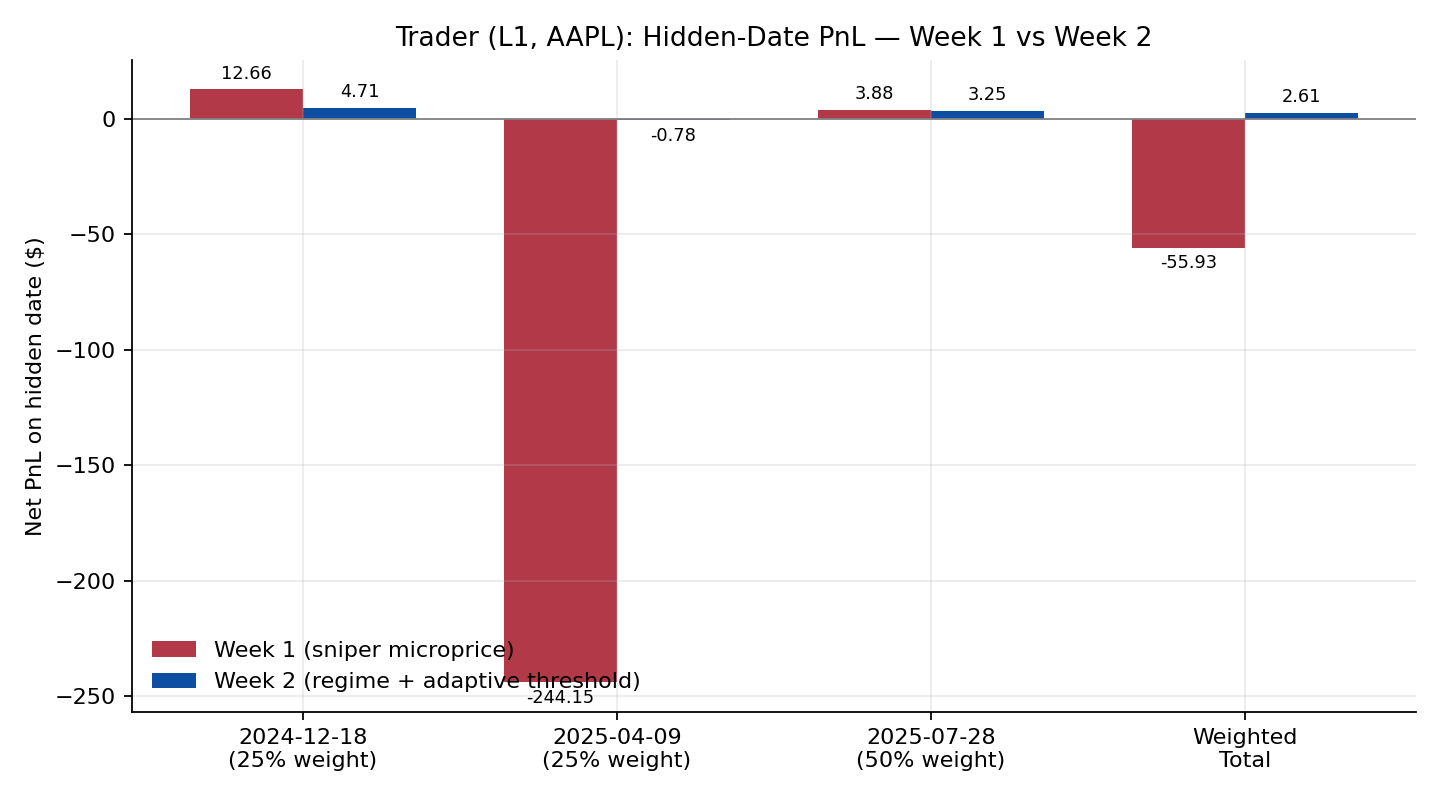
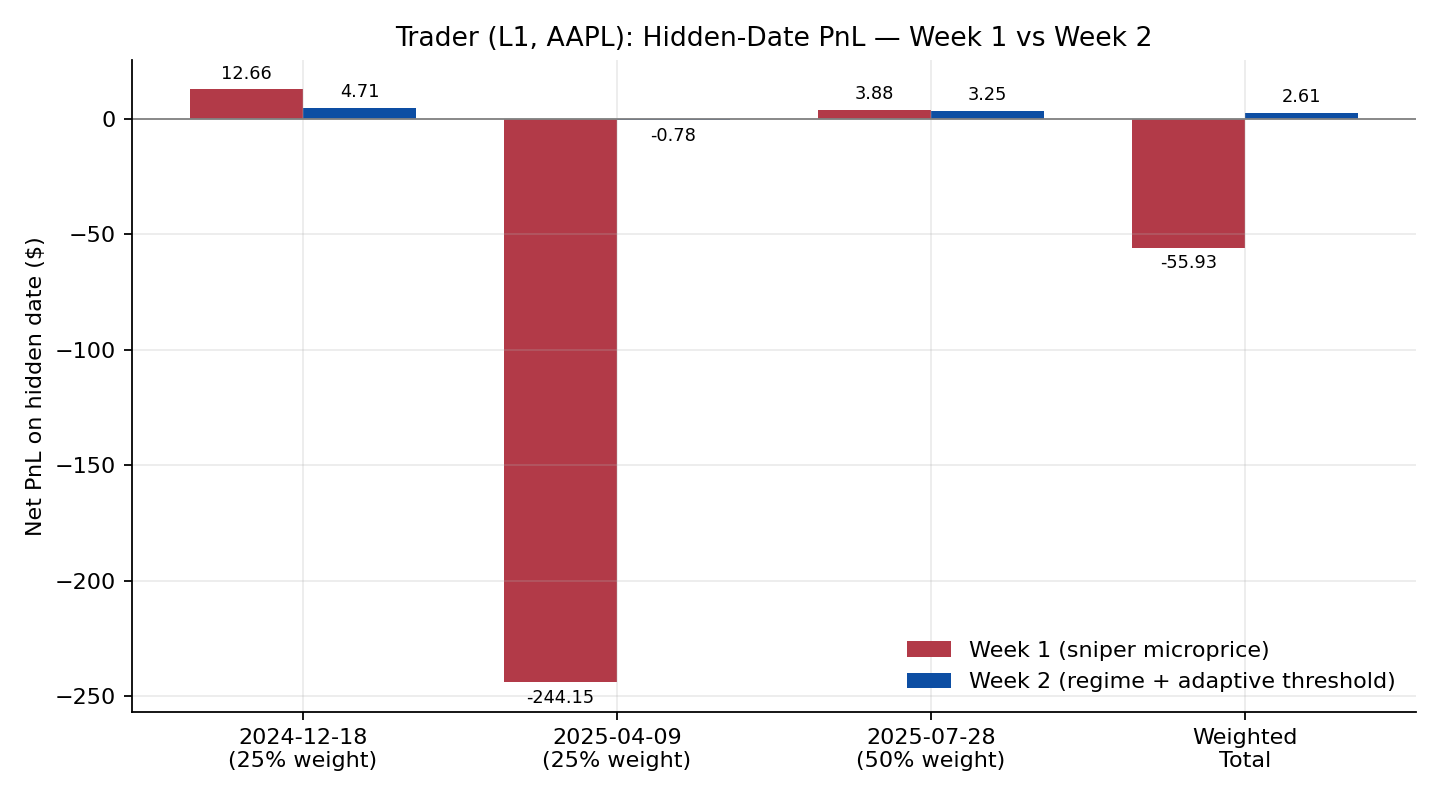
Mise à jour du site

Changed region(s): [[0.625, 0.7812, 0.9688, 0.875], [0.0938, 0.7812, 0.4375, 0.875]]

diff --git a/docs/quant_research/market_maker_ai/index.html b/docs/quant_research/market_maker_ai/index.html
@@ -153,7 +153,7 @@ window.Quarto = {
     <h2 id="toc-title">On this page</h2>
    
   <ul>
-  <li><a href="#week-7-baseline-a-textbook-avellaneda-stoikov-quoter-and-where-it-breaks" id="toc-week-7-baseline-a-textbook-avellaneda-stoikov-quoter-and-where-it-breaks" class="nav-link active" data-scroll-target="#week-7-baseline-a-textbook-avellaneda-stoikov-quoter-and-where-it-breaks">Week 7 baseline: a textbook Avellaneda-Stoikov quoter, and where it breaks</a></li>
+  <li><a href="#week-7-baseline-a-avellaneda-stoikov-quoter-and-where-it-breaks" id="toc-week-7-baseline-a-avellaneda-stoikov-quoter-and-where-it-breaks" class="nav-link active" data-scroll-target="#week-7-baseline-a-avellaneda-stoikov-quoter-and-where-it-breaks">Week 7 baseline: a Avellaneda-Stoikov quoter, and where it breaks</a></li>
   <li><a href="#week-8-six-targeted-fixes" id="toc-week-8-six-targeted-fixes" class="nav-link" data-scroll-target="#week-8-six-targeted-fixes">Week 8: six targeted fixes</a></li>
   <li><a href="#local-self-evaluation-development-day-2024-08-01" id="toc-local-self-evaluation-development-day-2024-08-01" class="nav-link" data-scroll-target="#local-self-evaluation-development-day-2024-08-01">Local self-evaluation (development day, 2024-08-01)</a></li>
   <li><a href="#hidden-date-results-week-7-vs-week-8" id="toc-hidden-date-results-week-7-vs-week-8" class="nav-link" data-scroll-target="#hidden-date-results-week-7-vs-week-8">Hidden-date results: Week 7 vs Week 8</a></li>
@@ -197,11 +197,16 @@ window.Quarto = {
 
 <p>This page documents the market-making assignment from <strong>MGMTMFE 412: Trading, Market Frictions, and FinTech</strong> at UCLA Anderson: maintain a two-sided quote on <code>SOFI</code> using a callback API (<code>build_strategy</code> → <code>on_market_event</code> / <code>on_fill</code>) against full L3 order-book data, graded on three hidden out-of-sample dates by</p>
 <p><span class="math display">\[
-\text{Score} = \text{NetPnL} - 0.50\,|q_{\text{end}}| - 0.20\,\overline{|q|} - 50\max(0,\, 0.30 - \text{two-sided ratio}) - 10 \times \text{market orders} - 25 \times \text{violations}.
+\text{Score}
+= \text{NetPnL}
+- 0.20\,\overline{\lvert q \rvert}
+- 50\,(0.30 - \text{two-sided ratio})^{+}
+- 10\,\text{market orders}
+- 25\,\text{violations}.
 \]</span></p>
-<p>As with the other strategies on this site, the code was developed iteratively with <strong>Claude (Anthropic)</strong>: I supplied the assignment brief, the previous week’s code, and the instructor’s feedback, and Claude proposed and implemented the quoting logic, which I then tested locally before submission. All figures below come from the autograder’s <code>summary.json</code> outputs and the instructor’s feedback reports.</p>
-<section id="week-7-baseline-a-textbook-avellaneda-stoikov-quoter-and-where-it-breaks" class="level3">
-<h3 class="anchored" data-anchor-id="week-7-baseline-a-textbook-avellaneda-stoikov-quoter-and-where-it-breaks">Week 7 baseline: a textbook Avellaneda-Stoikov quoter, and where it breaks</h3>
+<p>As with the other strategies, the code was developed iteratively with <strong>Claude (Anthropic)</strong>: I supplied the assignment brief, the previous week’s code, and the instructor’s feedback, and Claude proposed and implemented the quoting logic, which I then tested locally before submission. All figures below come from the autograder’s <code>summary.json</code> outputs and the instructor’s feedback reports.</p>
+<section id="week-7-baseline-a-avellaneda-stoikov-quoter-and-where-it-breaks" class="level3">
+<h3 class="anchored" data-anchor-id="week-7-baseline-a-avellaneda-stoikov-quoter-and-where-it-breaks">Week 7 baseline: a Avellaneda-Stoikov quoter, and where it breaks</h3>
 <p>The week-7 submission implements a linear inventory-skewed reservation price, <span class="math inline">\(r = \text{mid} - 0.10 \cdot q \cdot \text{tick}\)</span>, quoting 10 shares on each side with a 1-tick half-spread. Its main engineering contribution is a <em>safe-cancel</em> guard — only cancel an order that is provably behind the NBBO (a resting sell above the current ask, or a resting buy below the current bid) — combined with a two-level throttle: Level 1 immediately resubmits only the side that just got filled, while Level 2 refreshes both sides every 150 events. An inventory taper linearly reduces the accumulating side’s size as <span class="math inline">\(|q|\)</span> grows from 150 to 300 shares.</p>
 <p>On the hidden dates this scored an aggregate <strong>-301.9</strong>, with net PnL of <strong>-$180.02</strong>, a two-sided quote coverage of only 0.45 (below the 0.30 penalty threshold is fine, but barely), and <strong>1 violation</strong>:</p>
 <table class="caption-top table">
@@ -264,7 +269,7 @@ window.Quarto = {
 <h3 class="anchored" data-anchor-id="week-8-six-targeted-fixes">Week 8: six targeted fixes</h3>
 <p>Rather than a rewrite, week 8 kept the AS skeleton and layered on six changes aimed squarely at the three diagnosed weaknesses:</p>
 <ol type="1">
-<li><strong>Move-gate throttle</strong> — the Level-2 refresh now fires only when both 150 events have passed <em>and</em> the NBBO has moved by at least one tick, eliminating churn on flat markets while staying responsive to real price moves.</li>
+<li><strong>Move-gate throttle</strong> — the Level-2 refresh now fires only when both 150 events have passed <em>and</em> the NBBO has moved by at least one tick, eliminating churn on flat markets while staying responsive to price moves.</li>
 <li><strong>Stronger, non-cosmetic skew</strong> — a regime-dependent <code>extra_skew</code> adds up to 2 ticks (Warning regime: a fraction of 2 ticks; Critical regime: a flat 2 ticks) on top of the linear <code>SKEW_K</code> term, and the inventory clamp that previously bound at <span class="math inline">\(|q|=20\)</span> was raised from 2 to 4 ticks.</li>
 <li><strong>Multi-regime inventory guard</strong> — Normal (<span class="math inline">\(|q|\le180\)</span>), Warning (<span class="math inline">\(180&lt;|q|\le250\)</span>), and Critical (<span class="math inline">\(|q|&gt;250\)</span>, hard cap at <code>MAX_INVENTORY=300</code>) each get distinct tapering and quote-sending logic, rather than one linear taper across the whole range.</li>
 <li><strong>Microprice reference</strong> — the reservation price is now anchored to a queue-weighted microprice, <span class="math inline">\(\text{microprice} = \frac{P_{\text{ask}} \cdot Q_{\text{bid}} + P_{\text{bid}} \cdot Q_{\text{ask}}}{Q_{\text{bid}} + Q_{\text{ask}}}\)</span>, rather than the simple mid — systematically reducing adverse selection.</li>

diff --git a/docs/quant_research.html b/docs/quant_research.html
@@ -202,13 +202,13 @@ window.Quarto = {
 
 <div class="quarto-listing quarto-listing-container-grid" id="listing-listing">
 <div class="list grid quarto-listing-cols-3">
-<div class="g-col-1" data-index="0" data-listing-date-sort="1780297200000" data-listing-file-modified-sort="1781546823841" data-listing-date-modified-sort="NaN" data-listing-reading-time-sort="6" data-listing-word-count-sort="1162">
+<div class="g-col-1" data-index="0" data-listing-date-sort="1780297200000" data-listing-file-modified-sort="1782699063481" data-listing-date-modified-sort="NaN" data-listing-reading-time-sort="6" data-listing-word-count-sort="1162">
 <a href="./quant_research/trader_strategy_ai/index.html" class="quarto-grid-link">
 <div class="quarto-grid-item card h-100 card-left">
-<p class="card-img-top"><img src="quant_research\trader_strategy_ai\l1_hidden_dates.png" style="height: 150px;"  class="thumbnail-image card-img"/></p>
+<p class="card-img-top"><img src="quant_research\trader_strategy_ai\l2_pnl_curve.png" style="height: 150px;"  class="thumbnail-image card-img"/></p>
 <div class="card-body post-contents">
 <h5 class="no-anchor card-title listing-title">
-L1/L2 Limit-Order-Book Trading Strategies for AAPL and TSLA — AI-Assisted Development
+L1/L2 Limit-Order-Book Trading Strategies for AAPL and TSLA — <br> AI-Assisted Development
 </h5>
 <div class="card-text listing-description delink">
 </div>
@@ -223,13 +223,13 @@ Jun 1, 2026
 </div>
 </div></a>
 </div>
-<div class="g-col-1" data-index="1" data-listing-date-sort="1780297200000" data-listing-file-modified-sort="1781547036556" data-listing-date-modified-sort="NaN" data-listing-reading-time-sort="7" data-listing-word-count-sort="1396">
+<div class="g-col-1" data-index="1" data-listing-date-sort="1780297200000" data-listing-file-modified-sort="1782699407829" data-listing-date-modified-sort="NaN" data-listing-reading-time-sort="7" data-listing-word-count-sort="1380">
 <a href="./quant_research/execution_strategy_ai/index.html" class="quarto-grid-link">
 <div class="quarto-grid-item card h-100 card-left">
 <p class="card-img-top"><img src="quant_research\execution_strategy_ai\is_progression.png" style="height: 150px;"  class="thumbnail-image card-img"/></p>
 <div class="card-body post-contents">
 <h5 class="no-anchor card-title listing-title">
-Adaptive Optimal Execution for a $10M AAPL Buy Order — AI-Assisted Development
+Adaptive Optimal Execution for a $10M AAPL Buy Order — <br> AI-Assisted Development
 </h5>
 <div class="card-text listing-description delink">
 </div>
@@ -244,7 +244,7 @@ Jun 1, 2026
 </div>
 </div></a>
 </div>
-<div class="g-col-1" data-index="2" data-listing-date-sort="1780297200000" data-listing-file-modified-sort="1781547135241" data-listing-date-modified-sort="NaN" data-listing-reading-time-sort="9" data-listing-word-count-sort="1664">
+<div class="g-col-1" data-index="2" data-listing-date-sort="1780297200000" data-listing-file-modified-sort="1782701606006" data-listing-date-modified-sort="NaN" data-listing-reading-time-sort="9" data-listing-word-count-sort="1650">
 <a href="./quant_research/market_maker_ai/index.html" class="quarto-grid-link">
 <div class="quarto-grid-item card h-100 card-left">
 <p class="card-img-top"><img src="quant_research\market_maker_ai\pnl_curve.png" style="height: 150px;"  class="thumbnail-image card-img"/></p>
@@ -265,7 +265,7 @@ Jun 1, 2026
 </div>
 </div></a>
 </div>
-<div class="g-col-1" data-index="3" data-listing-date-sort="1777618800000" data-listing-file-modified-sort="1781543587014" data-listing-date-modified-sort="NaN" data-listing-reading-time-sort="6" data-listing-word-count-sort="1024">
+<div class="g-col-1" data-index="3" data-listing-date-sort="1777618800000" data-listing-file-modified-sort="1782697206430" data-listing-date-modified-sort="NaN" data-listing-reading-time-sort="6" data-listing-word-count-sort="1024">
 <a href="./quant_research/economic_weather_rotation/index.html" class="quarto-grid-link">
 <div class="quarto-grid-item card h-100 card-left">
 <p class="card-img-top"><img src="quant_research\economic_weather_rotation\cumulative_returns.png" style="height: 150px;"  class="thumbnail-image card-img"/></p>

diff --git a/docs/quant_research/execution_strategy_ai/index.html b/docs/quant_research/execution_strategy_ai/index.html
@@ -9,7 +9,7 @@
 <meta name="author" content="Mihnea POPA">
 <meta name="dcterms.date" content="2026-06-01">
 
-<title>Adaptive Optimal Execution for a $10M AAPL Buy Order — AI-Assisted Development – Mihnea POPA</title>
+<title>Adaptive Optimal Execution for a $10M AAPL Buy Order —   AI-Assisted Development – Mihnea POPA</title>
 <style>
 code{white-space: pre-wrap;}
 span.smallcaps{font-variant: small-caps;}
@@ -166,7 +166,7 @@ window.Quarto = {
 
 <header id="title-block-header" class="quarto-title-block default">
 <div class="quarto-title">
-<h1 class="title">Adaptive Optimal Execution for a $10M AAPL Buy Order — AI-Assisted Development</h1>
+<h1 class="title">Adaptive Optimal Execution for a $10M AAPL Buy Order — <br> AI-Assisted Development</h1>
 </div>
 
 
@@ -204,7 +204,7 @@ window.Quarto = {
 <h3 class="anchored" data-anchor-id="v1-segment-voting-momentum-with-ifelif-branching">V1: segment-voting momentum with if/elif branching</h3>
 <p>V1 is a 5-minute clock-bucket executor. At each checkpoint it computes a <em>segment-voting momentum</em> signal — the 15-minute lookback is split into three independent 5-minute sub-windows, each compared against a smoothed mid-price anchor, and a trade direction is confirmed only if at least 2 of 3 sub-windows agree (with a <code>min_valid_segments=3</code> guard to avoid false signals in the first 15 minutes). This vote is combined with an L1 book-imbalance multiplier and a spread-aware limit/market order selector, on top of a geometric-decay base schedule (<code>remaining_qty × dynamic_frac</code>) that naturally front-loads execution.</p>
 <p>On the training date this scored <strong>1.80 bps</strong> — a huge improvement over TWAP’s 7.80 bps, since front-loading is exactly the right thing to do on an uptrend day (buy before the price rises further). But the decision logic was a stack of hard-coded <code>if/elif</code> branches with discrete multipliers (2x / 1.3x / 0.6x), which the instructor’s feedback flagged as the strategy’s central weakness: “what is missing is the guide’s unified urgency score… the student uses separate if/elif branches… rather than a single linear combination that allows all signals to interact continuously.”</p>
-<p>Before committing to V1’s signal set, I (with Claude) ran an empirical accuracy comparison of L1 vs.&nbsp;L2 directional signals on the training date, at both 1-minute and 5-minute horizons:</p>
+<p>Before committing to V1’s signal set, I ran an empirical accuracy comparison of L1 vs.&nbsp;L2 directional signals on the training date, at both 1-minute and 5-minute horizons:</p>
 <table class="caption-top table">
 <thead>
 <tr class="header">
@@ -236,7 +236,7 @@ window.Quarto = {
 </tr>
 </tbody>
 </table>
-<p>L2 signals were <em>worse than random</em> at the 5-minute checkpoint horizon for AAPL — the instructor’s read is that “HFT market-maker quoting dominates levels 1-9,” so depth beyond the top of book is mostly noise for a 5-minute decision cadence. That result is why both V1 and V2 stayed L1-only by design, in contrast to the L2-heavy trader strategies on the other pages of this site.</p>
+<p>L2 signals were <em>worse than random</em> at the 5-minute checkpoint horizon for AAPL — the instructor’s read is that “HFT market-maker quoting dominates levels 1-9,” so depth beyond the top of book is mostly noise for a 5-minute decision cadence. That result is why both V1 and V2 stayed L1-only by design.</p>
 <p>Two alternatives were tried and rejected before settling on the geometric-decay + signal-multiplier design. A pure VWAP-tracking schedule gave <strong>9.70 bps</strong> — <em>worse</em> than TWAP, because on an uptrend day VWAP “back-loads into peak prices.” A fixed-fraction schedule (<code>BASE_FRACTION=0.07</code> applied uniformly, no signals at all) gave <strong>1.05 bps</strong> — the best in-sample number of any variant — but was rejected as overfit to a single uptrend training day with no adaptive mechanism for a different regime.</p>
 </section>
 <section id="v2-a-unified-urgency-score" class="level3">

diff --git a/docs/quant_research/trader_strategy_ai/index.html b/docs/quant_research/trader_strategy_ai/index.html
@@ -9,7 +9,7 @@
 <meta name="author" content="Mihnea POPA">
 <meta name="dcterms.date" content="2026-06-01">
 
-<title>L1/L2 Limit-Order-Book Trading Strategies for AAPL and TSLA — AI-Assisted Development – Mihnea POPA</title>
+<title>L1/L2 Limit-Order-Book Trading Strategies for AAPL and TSLA —   AI-Assisted Development – Mihnea POPA</title>
 <style>
 code{white-space: pre-wrap;}
 span.smallcaps{font-variant: small-caps;}
@@ -164,7 +164,7 @@ window.Quarto = {
 
 <header id="title-block-header" class="quarto-title-block default">
 <div class="quarto-title">
-<h1 class="title">L1/L2 Limit-Order-Book Trading Strategies for AAPL and TSLA — AI-Assisted Development</h1>
+<h1 class="title">L1/L2 Limit-Order-Book Trading Strategies for AAPL and TSLA — <br> AI-Assisted Development</h1>
 </div>
 
 
@@ -193,6 +193,7 @@ window.Quarto = {
 </header>
 
 
+<p><img src="l2_pnl_curve.png" class="img-fluid" style="width:0.01389in"></p>
 <p>This page documents the four-week trading-strategy sequence from <strong>MGMTMFE 412: Trading, Market Frictions, and FinTech</strong> at UCLA Anderson, run against a course autograder that replays real Databento order-book data (<code>AAPL</code> at L1 for weeks 1-2, <code>TSLA</code> at L2 for weeks 3-4) and scores submissions on three <em>hidden</em> out-of-sample dates each week. Every week’s code was written and revised together with <strong>Claude (Anthropic)</strong>: I provided the assignment brief, the previous week’s code, and the instructor’s feedback, and Claude proposed the signal logic, implemented it, and helped debug it against the local simulator before submission. All numbers below — PnL, drawdowns, scores — are taken directly from the autograder’s <code>summary.json</code> files and the instructor’s feedback reports; nothing here is re-simulated for the writeup.</p>
 <section id="weeks-1-2-an-l1-sniper-on-aapl-then-a-regime-aware-rewrite" class="level3">
 <h3 class="anchored" data-anchor-id="weeks-1-2-an-l1-sniper-on-aapl-then-a-regime-aware-rewrite">Weeks 1-2: an L1 sniper on AAPL, then a regime-aware rewrite</h3>

diff --git a/docs/quant_research/economic_weather_rotation/index.html b/docs/quant_research/economic_weather_rotation/index.html
@@ -208,7 +208,7 @@ r_{i,\tau}^{e} = \alpha_i + \beta_i' f_\tau + \epsilon_{i,\tau}.
 <p><span class="math display">\[
 \hat{\mu}_{i,t} = \tilde{\alpha}_{i,t} + \hat{\beta}_{i,t}'\tilde{f}_t + 0.012\, z(\text{MOM}_{i,t}) + \omega_{i,t}^{\text{weather}}.
 \]</span></p>
-<p>Here <span class="math inline">\(\tilde{\alpha}_{i,t}\)</span> is the industry’s factor-model intercept after cross-sectional shrinkage, so a handful of noisy outlier alphas can’t dominate the ranking. <span class="math inline">\(\tilde{f}_t\)</span> is a forecast of next month’s factor premia, blending historical factor means with ridge regressions on lagged FRED macro variables — the term spread, unemployment, industrial production growth, and inflation. <span class="math inline">\(\text{MOM}_{i,t}\)</span> is the industry’s 12-month return skipping the most recent month, entered as a <code>cross-sectional z-score</code>. The last term, <span class="math inline">\(\omega_{i,t}^{\text{weather}}\)</span>, is the Economic Weather overlay described next.</p>
+<p>Here <span class="math inline">\(\tilde{\alpha}_{i,t}\)</span> is the industry’s factor-model intercept after cross-sectional shrinkage, so a handful of noisy outlier alphas can’t dominate the ranking. <span class="math inline">\(\tilde{f}_t\)</span> is a forecast of next month’s factor premia, blending historical factor means with ridge regressions on lagged FRED macro variables — the term spread, unemployment, industrial production growth, and inflation. <span class="math inline">\(\text{MOM}_{i,t}\)</span> is the industry’s 12-month return skipping the most recent month, entered as a cross-sectional z-score. The last term, <span class="math inline">\(\omega_{i,t}^{\text{weather}}\)</span>, is the Economic Weather overlay described next.</p>
 </section>
 <section id="the-economic-weather-overlay" class="level3">
 <h3 class="anchored" data-anchor-id="the-economic-weather-overlay">The economic weather overlay</h3>

diff --git a/docs/teaching/probabilities/stick_triangle.html b/docs/teaching/probabilities/stick_triangle.html
@@ -199,7 +199,7 @@ window.Quarto = {
 <p>Since all length are positive, the possible region is <span class="math display">\[\begin{cases} x \ge 0 \\ y \ge 0 \\ y \le 1 -x \end{cases}.\]</span></p>
 <p>The broken pieces form a triangle if and only if all length are lower than the sum of the other sides. Thus we have <span class="math display">\[\begin{cases} x \le y + 1 -x -y \\  y \le y + 1 -x -y \\ 1 -x - y \le x + y  \end{cases} \sim \begin{cases} x \le 1/2 \\  y \le 1/2 \\ y \ge 1/2 -x   \end{cases}.\]</span></p>
 <p>We can plot the regions and we find <span class="math inline">\(\boxed{\mathbb{P}(\text{Triangle}) = \frac{A_{tri}}{A_{tot}}=\frac{1/8}{1/2}=1/4.}\)</span></p>
-<div id="6e98a42d" class="cell" data-execution_count="1">
+<div id="0714e410" class="cell" data-execution_count="1">
 <div class="cell-output cell-output-display">
 <div>
 <figure class="figure">

diff --git a/docs/index.html b/docs/index.html
@@ -138,7 +138,7 @@ ul.task-list li input[type="checkbox"] {
 <section id="current" class="level2">
 <h2 data-anchor-id="current">Current</h2>
 <ul>
-<li>Master of Financial Engineering Student | UCLA Anderson</li>
+<li>Master of Financial Engineering Student | <br> UCLA Anderson</li>
 <li>Aspiring Quant Researcher &amp; Trader</li>
 </ul>
 <hr>
@@ -159,6 +159,7 @@ ul.task-list li input[type="checkbox"] {
 <li>FX, Equities &amp; Commodities</li>
 <li>Financial Risk Measurement &amp; Management</li>
 <li>Stochastic Calculus &amp; Derivatives Pricing</li>
+<li>Data Science &amp; Statistical Analytics</li>
 </ul>
 
 

diff --git a/docs/teaching/probabilities/uniform_ratio.html b/docs/teaching/probabilities/uniform_ratio.html
@@ -199,7 +199,7 @@ window.Quarto = {
 <p>The condition if fulfilled if<br>
 <span class="math display">\[\begin{cases} x / y\le 2\\  x/y \ge 1  \end{cases} \sim \begin{cases} y \le x \\  y \le x/2  \end{cases}.\]</span></p>
 <p>We can plot the regions and we find <span class="math inline">\(\boxed{\mathbb{P}(1 \le X/Y \le2) = \frac{1-\frac{1*1}{2}-\frac{1*1/2}{2}}{1}= 1/4.}\)</span></p>
-<div id="a0878af0" class="cell" data-execution_count="1">
+<div id="9e5725f5" class="cell" data-execution_count="1">
 <div class="cell-output cell-output-display">
 <div>
 <figure class="figure">

diff --git a/docs/teaching/probabilities/uncertain_meeting.html b/docs/teaching/probabilities/uncertain_meeting.html
@@ -200,7 +200,7 @@ window.Quarto = {
 <p>The meeting happens if<br>
 <span class="math display">\[\begin{cases} x - y\le 1/2\\  y -x \le 1/2  \end{cases} \sim \begin{cases} y \ge x-1/2 \\  y \le x +1/2  \end{cases}.\]</span></p>
 <p>We can plot the regions and we find <span class="math inline">\(\boxed{\mathbb{P}(\text{Meet}) = \frac{1-2*\frac{1/2*1/2}{2}}{1}= 3/4.}\)</span></p>
-<div id="b5149e3c" class="cell" data-execution_count="1">
+<div id="8ff6c112" class="cell" data-execution_count="1">
 <div class="cell-output cell-output-display">
 <div>
 <figure class="figure">
